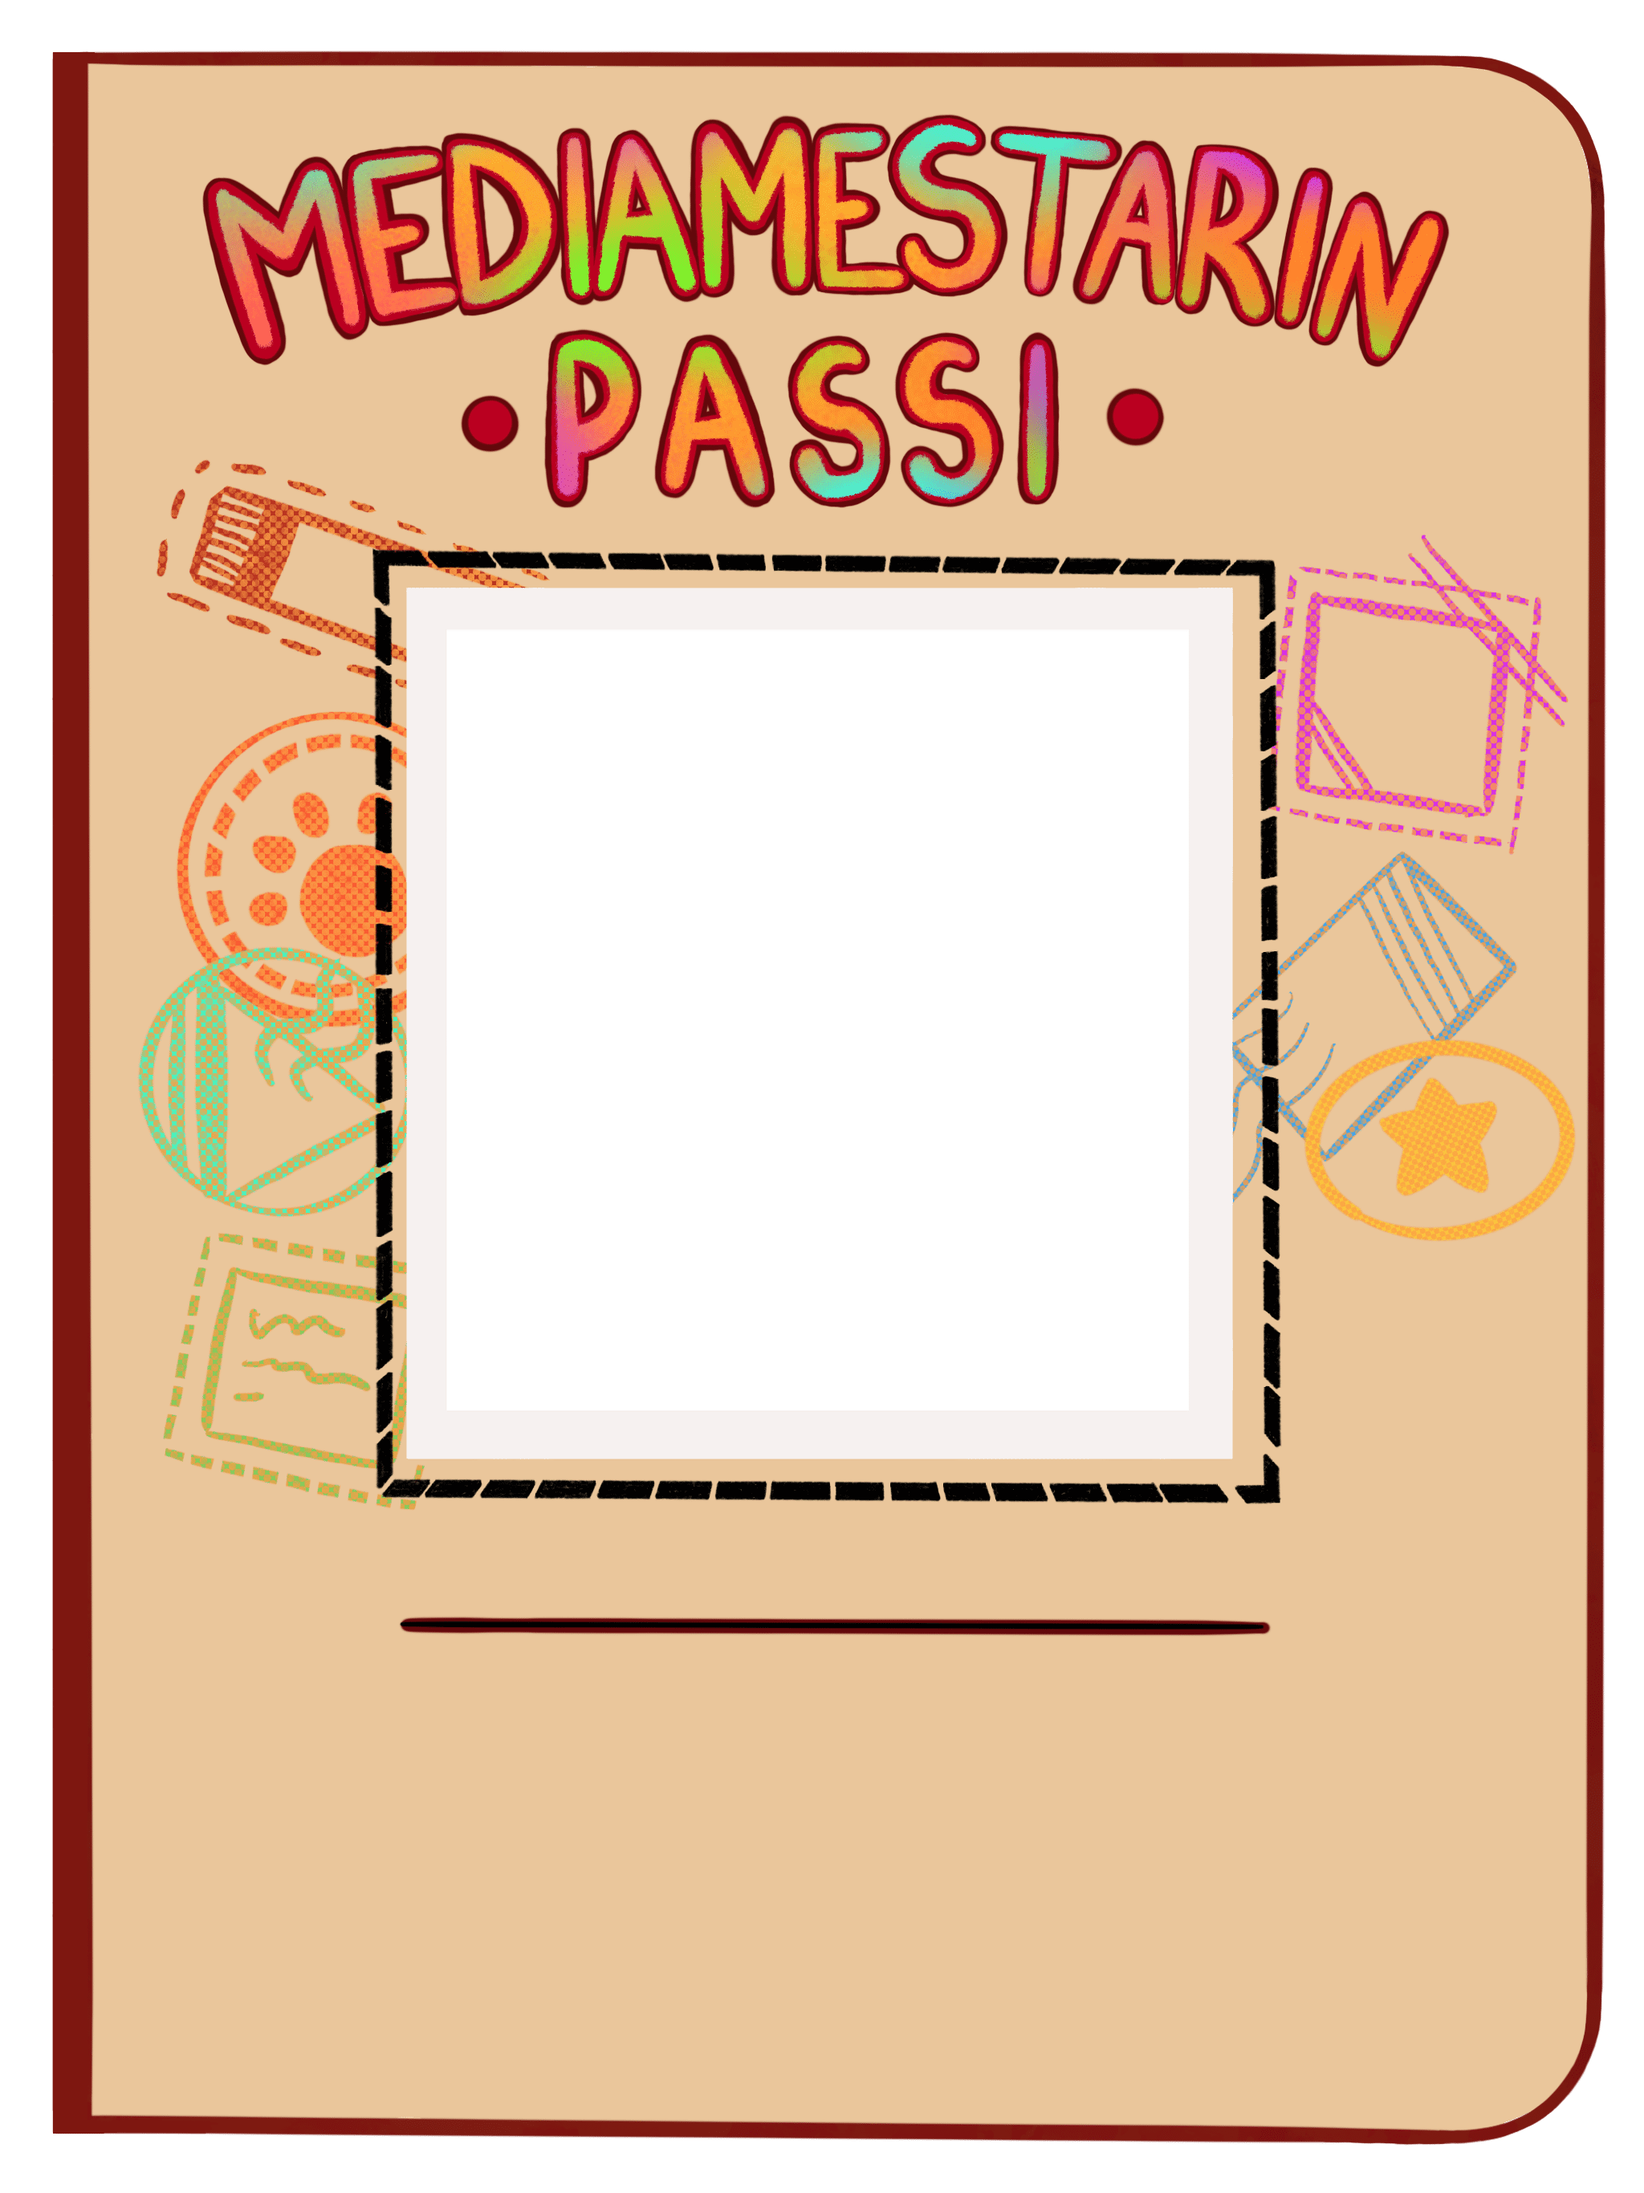
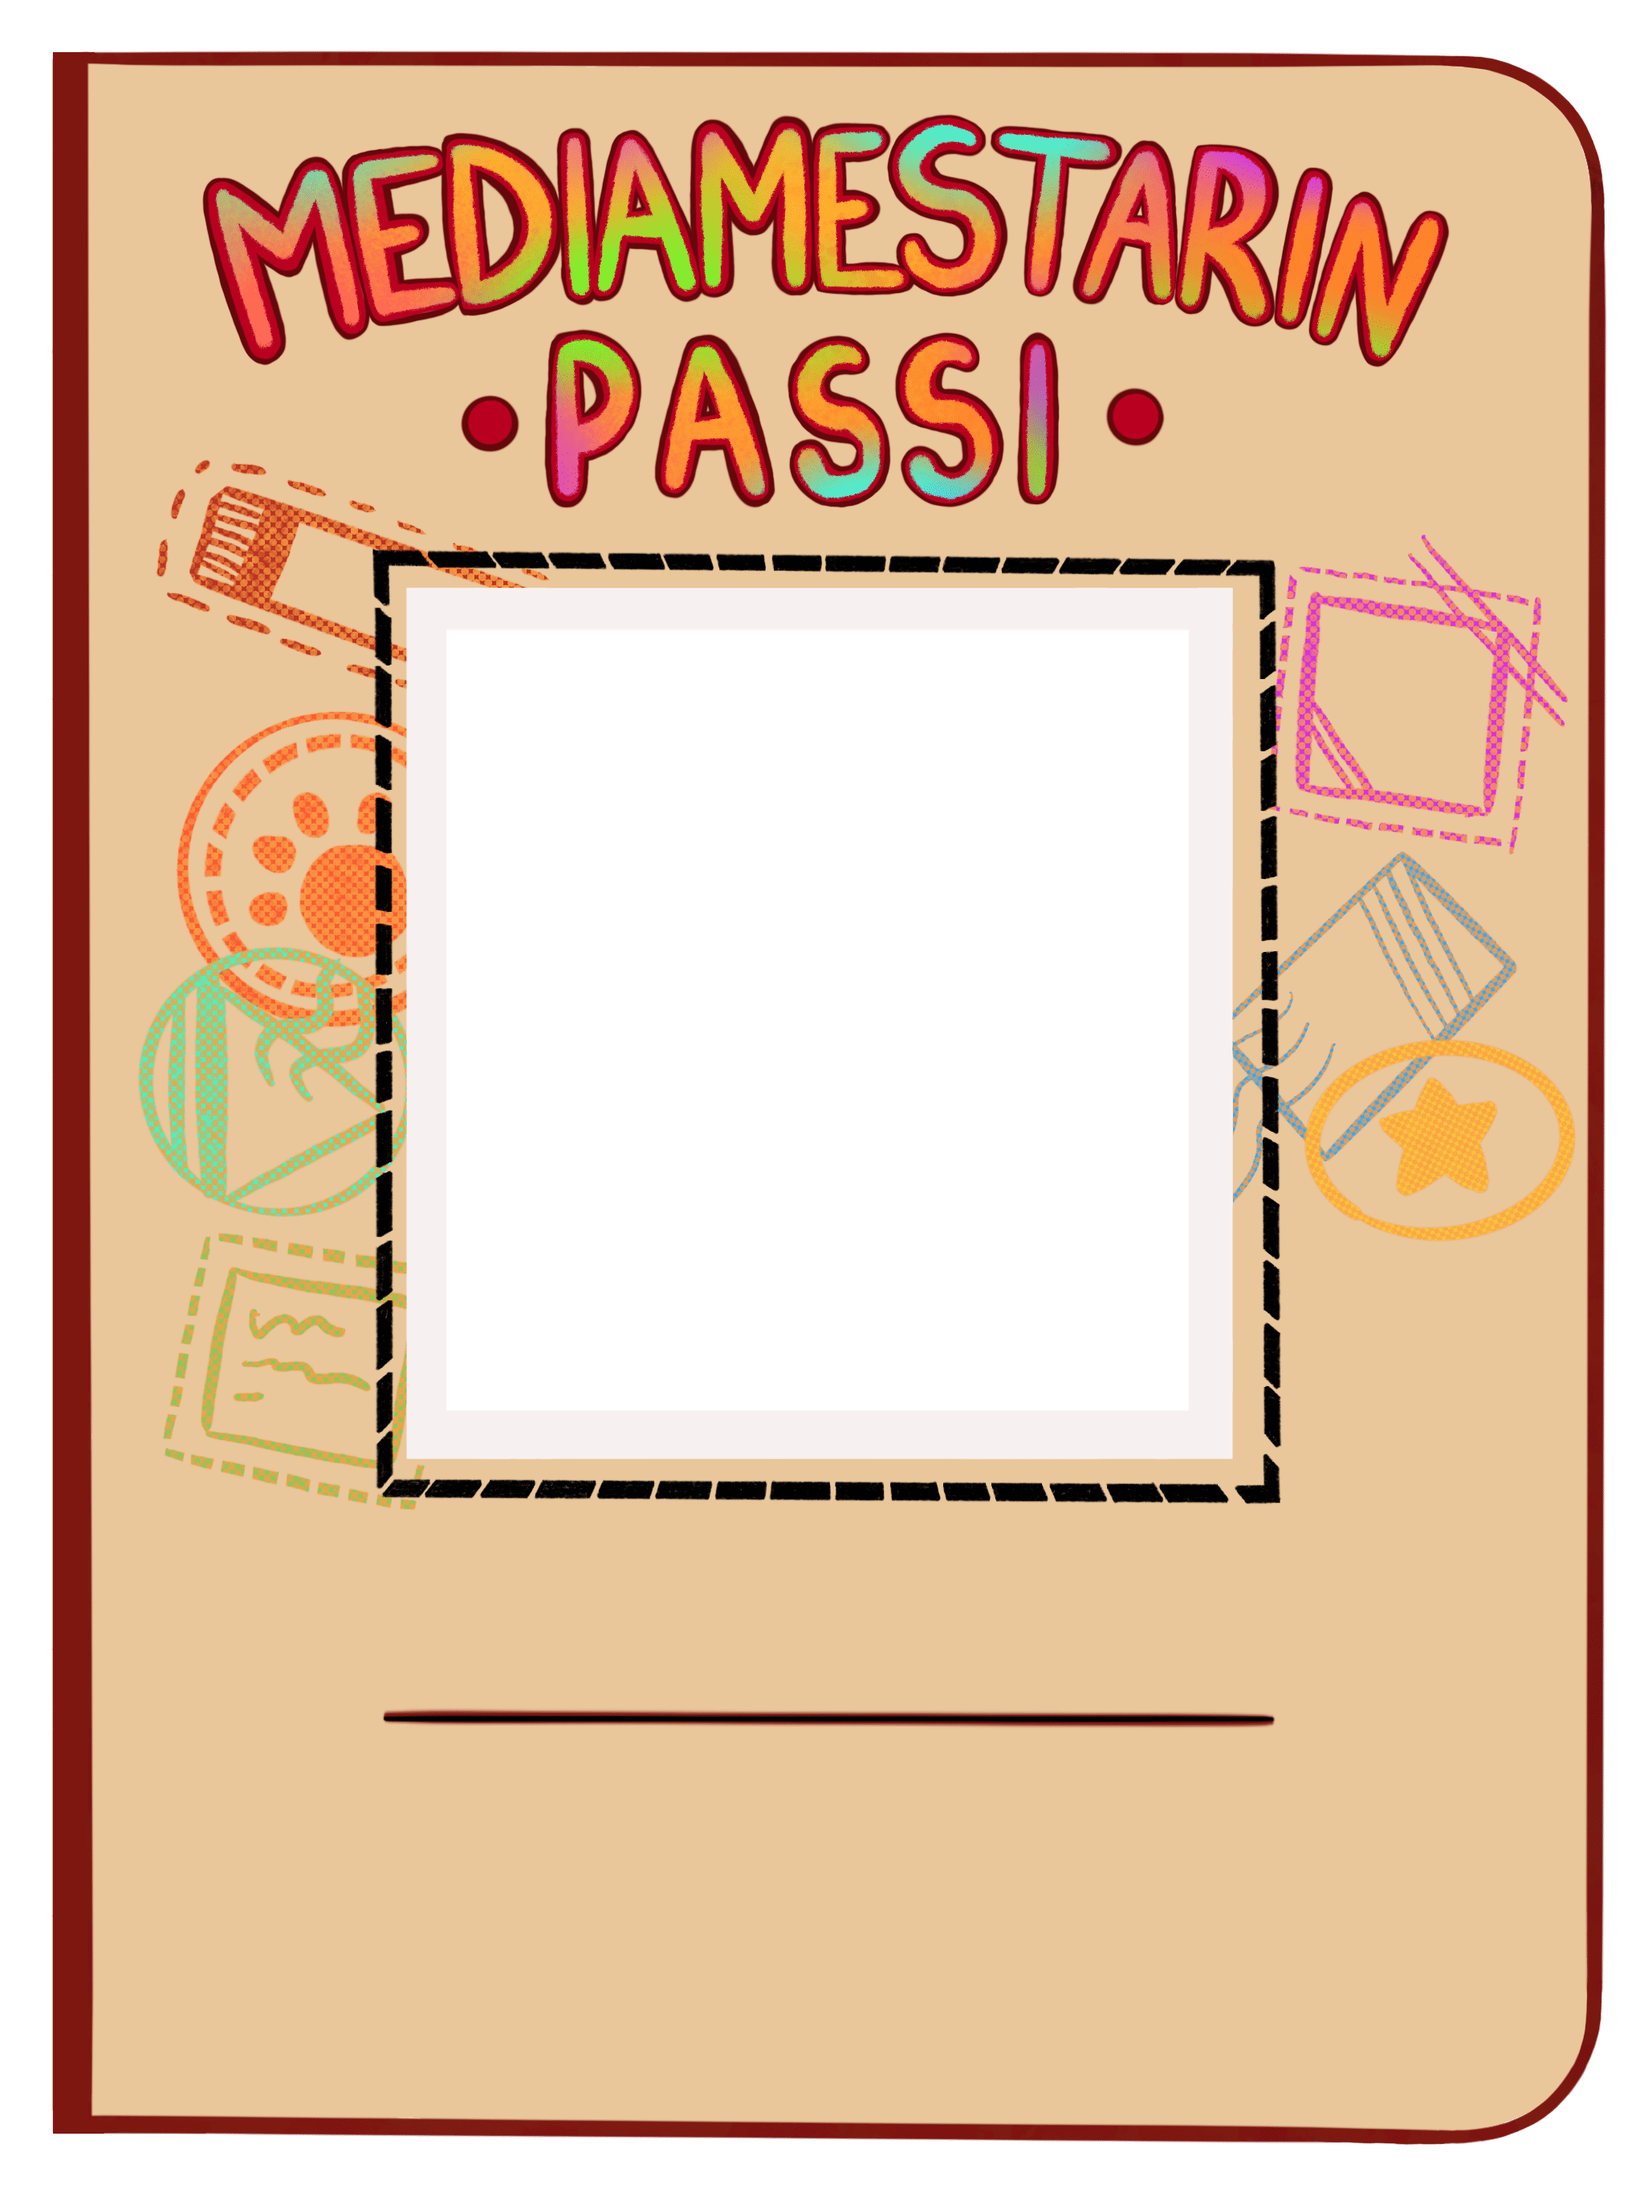
Change cover page graphics, screentime page graphics

diff --git a/css/passport-page-screentime.css b/css/passport-page-screentime.css
@@ -48,20 +48,27 @@
     margin: 0.5rem;
     cursor: pointer;
   }
-  .passport-page-screentime .activity .activity-highlight {
+  .passport-page-screentime .activity::before {
+    content: "";
     position: absolute;
+    display: block;
     width: var(--activity-icon-width);
     height: var(--activity-icon-height);
-    border: calc(var(--activity-icon-width) / 2) solid #666;
-    border-radius: 50%;
-    transform: scale(.95) scale(0);
-    transition: transform 100ms ease;
+    background: url('../assets/activity-icon-highlight.png');
+    background-repeat: no-repeat;
+    background-size: contain;
+    background-position: center;
+    transform: scale(.95) scale(1.15);
+    opacity: 0;
+    transition: all 100ms ease;
   }
-  .activity-select .activity:hover .activity-highlight {
-    transform: scale(.95) scale(0.75);
+  .activity-select .activity:hover::before {
+    opacity: 1;
+    transform: scale(.95) scale(1.19);
   }
-  .activity-select .activity.selected .activity-highlight {
-    transform: scale(.95) scale(0.9);
+  .activity-select .activity.selected::before {
+    opacity: 1;
+    transform: translateY(0.05rem) scale(.95) scale(1.22);
   }
   .activity-select .activity img {
     position: relative;

diff --git a/css/passport-page-cover.css b/css/passport-page-cover.css
@@ -83,12 +83,12 @@
     padding: 0.5rem;
     border: 0;
     color: #555;
-    font-size: 3rem;
+    font-size: 3.6rem;
     background: rgb(0 0 0 / 0);
     text-align: center;
     text-transform: uppercase;
     outline: none !important;
-    transform: translate(-0.4rem, 1.5rem);
+    transform: translate(-0.4rem, 4rem);
   }
   .passport-name-input:focus {
     background: rgb(50 50 0 / .03);
@@ -130,7 +130,7 @@
     width: 49.2rem;
     height: 15rem;
     left: 2rem;
-    top: 57.5rem;
+    top: 58.2rem;
     border: 0.25rem dashed rgb(0 0 0 / .4);
     box-shadow: 0 0 0 100vw rgb(0 0 0 / .2);
     transition: opacity 200ms ease;

diff --git a/js/passport-page-screentime.js b/js/passport-page-screentime.js
@@ -53,7 +53,6 @@ activityElements.forEach(activityElement => {
     activityElement.classList.add('selected');
     timeSlotsContainer.setAttribute('data-color', selectedColor);
   }
-  activityElement.insertAdjacentHTML('afterbegin', '<div class="activity-highlight"></div>');
   checkSuccess();
 });
 
